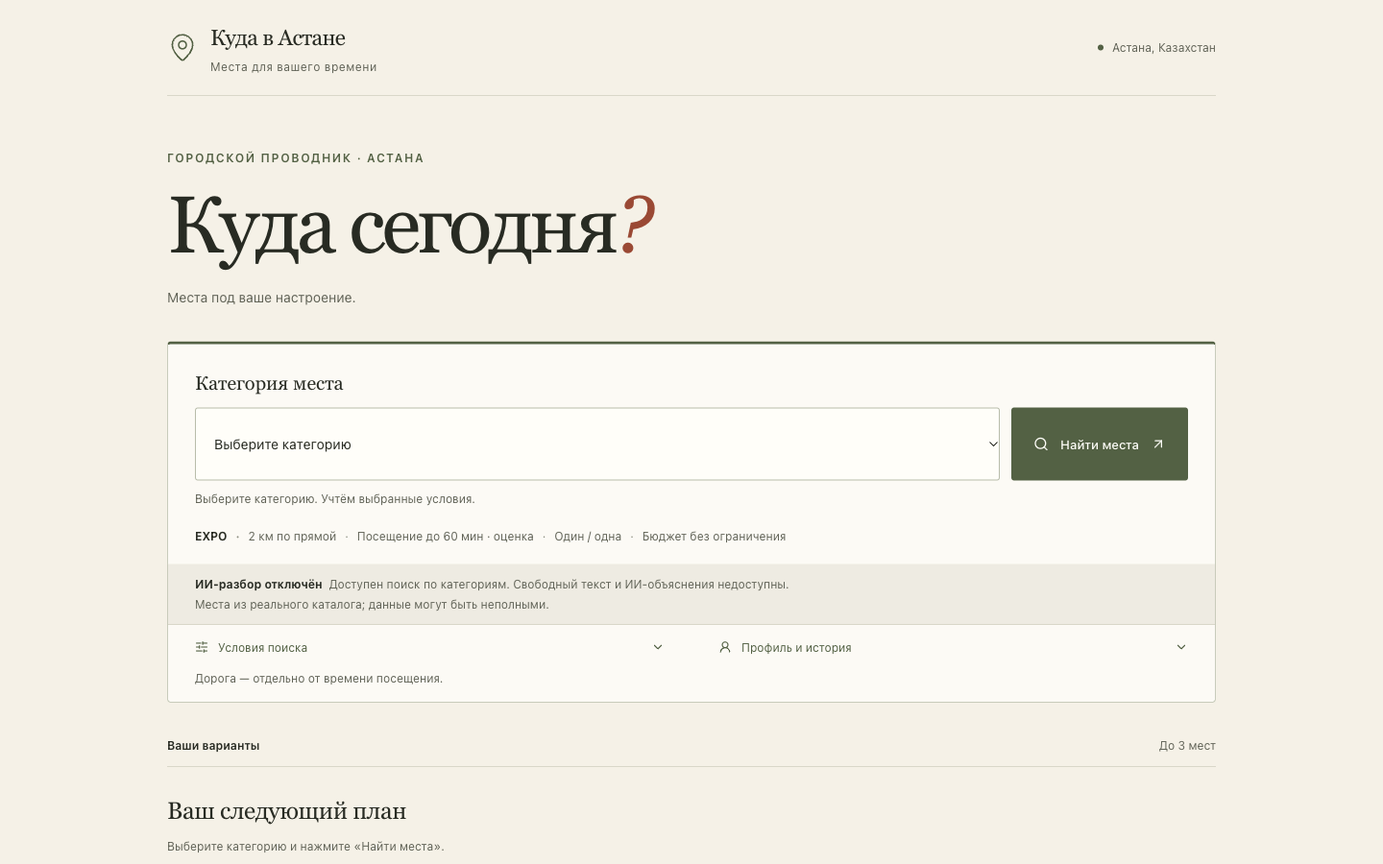
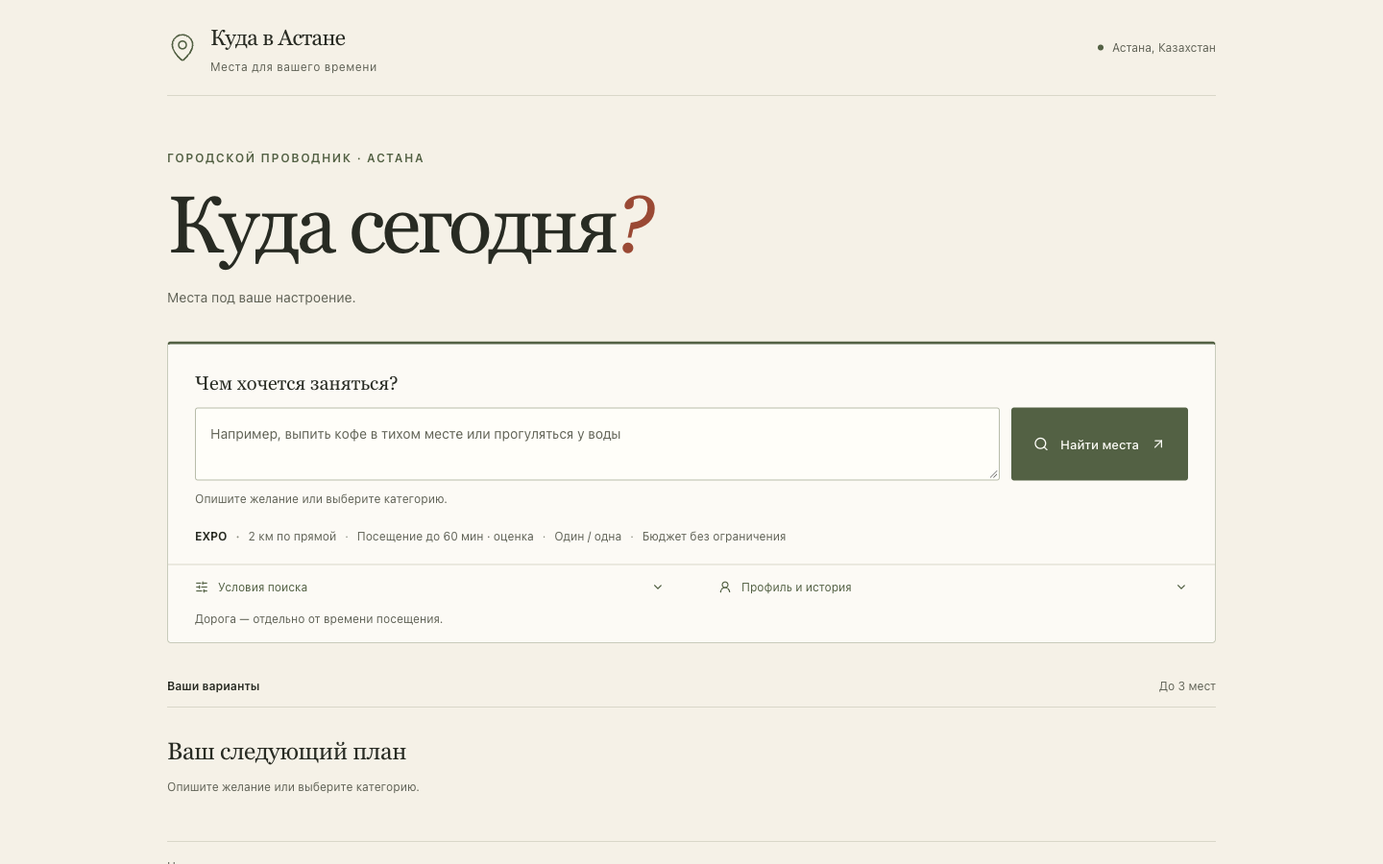
Document live AI deployment and refresh production screenshots

diff --git a/README.md b/README.md
@@ -1,26 +1,27 @@
 # Куда в Астане
 
-Городской гид: выберите категорию, проверьте условия и откройте маршрут.
+Городской гид: опишите желание, проверьте условия и откройте маршрут.
 
 [**Открыть демо →**](https://aituhack-city-guide.vercel.app) · [Новое UI-демо — MP4](output/submission/aituhack-redesign-offline.mp4) · [Презентация проекта](output/submission/aituhack-live-demo.pptx)
 
-![Новый интерфейс городского гида](docs/submission/images/repair-desktop-home-1440.png)
+![Интерфейс городского гида](docs/submission/images/repair-desktop-home-1440.png)
 
-> **Сейчас ИИ отключён.** Один реальный запрос при записи демо завершился без подтверждённой стоимости, поэтому существующий guard остановил все платные вызовы. Повтора не было. [Запись реальной неудавшейся попытки — MP4, 49,52 с](output/submission/aituhack-redesign-live-attempt.mp4). Категории, фильтры, источники и маршруты доступны без ИИ.
+> **Настоящий ИИ включён:** Mistral Small 3.2 через серверный OpenRouter. По последней просьбе пользователя новый платный проверочный запрос после включения не запускался. MP4 ниже показывает отдельно отмеченный режим без ИИ.
 
 ## Как пользоваться
 
-1. Выберите **«Парки»** в поле **«Категория места»**.
+1. Напишите **«Найдите парк для часовой прогулки»**.
 2. В **«Условиях поиска»** задайте **EXPO → 5 км → 60 минут**, бюджет оставьте пустым.
 3. Нажмите **«Найти места»**, откройте **«Сведения и источники»** или маршрут.
 
-Свободный текст сейчас недоступен; форма сразу предлагает работающий поиск по категории.
+Второстепенные фильтры и демо-профили доступны в раскрывающихся разделах.
 
 Пустой бюджет — без денежного лимита. **0 ₸** требует подтверждённо бесплатного посещения: при неизвестной цене место исключается.
 
 ## Что работает
 
-- Поиск по категориям и строгим ограничениям без платных вызовов.
+- Разбор свободного запроса настоящим ИИ, поиск по сохранённому RAG-индексу и объяснение выбора.
+- Категории и строгие ограничения; фильтры не ослабляются молча.
 - **0–3 реальных места** после строгих фильтров. Неизвестные свойства не подменяются фактами.
 - Краткое резюме условий; дополнительные фильтры, демо-профили и история — по раскрытию.
 - Источники и отзывы как мнения; идеи занятий отделены от подтверждённых сведений.
@@ -30,19 +31,19 @@
 ![Новый интерфейс: результаты поиска по категории без ИИ](docs/submission/images/redesign-desktop-results-1440.png)
 
 <details>
-<summary>Мобильный экран: выбор категории, без ИИ</summary>
+<summary>Мобильный экран: запрос к ИИ</summary>
 
-<img src="docs/submission/images/repair-mobile-home-360.png" width="300" alt="Работающий выбор категории в мобильном интерфейсе" />
+<img src="docs/submission/images/repair-mobile-home-360.png" width="300" alt="Поле запроса к настоящему ИИ в мобильном интерфейсе" />
 
 </details>
 
 ## Новое видео
 
-[**Смотреть новое UI-демо — 81,52 с**](output/submission/aituhack-redesign-offline.mp4). Настоящий браузерный сценарий текущего режима без ИИ: категории, реальные места, источники и маршрут. Ответы получены от работающего API каталога, без подмен. 2ГИС запросила CAPTCHA; в ролике также открыт маршрут Google Maps из той же карточки. H.264, yuv420p, faststart, без звука.
+[**Смотреть новое UI-демо — 81,52 с**](output/submission/aituhack-redesign-offline.mp4). Настоящий браузерный сценарий исторического режима без ИИ: категории, реальные места, источники и маршрут. Ответы получены от работающего API каталога, без подмен. 2ГИС запросила CAPTCHA; в ролике также открыт маршрут Google Maps из той же карточки. H.264, yuv420p, faststart, без звука.
 
-Ролик записан до исправления формы21октября; сейчас категория доступна сразу на главном экране.
+Ролик записан до текущего включения ИИ. Сейчас на главном экране доступен свободный запрос.
 
-Успешное новое ИИ-демо **не записано**: единственная live-попытка дала уточнение без мест и неизвестную стоимость. Она сохранена отдельно по ссылке выше.
+Успешное новое ИИ-демо **не записано**. [Реальная предыдущая неудавшаяся попытка — 49,52 с](output/submission/aituhack-redesign-live-attempt.mp4) сохранена отдельно: уточнение без мест и неизвестная стоимость. После срочного включения новый платный прогон и запись не выполнялись.
 
 [Предыдущий ролик — stub, 1:50](output/submission/aituhack-demo.mp4) сохранён отдельно. Он не представляет текущую версию.
 
@@ -50,7 +51,7 @@
 
 **298 мест · 7 категорий · 591 короткая выдержка с источниками.** Импорт из сохранённого снимка 2ГИС/Apify от 19 октября 2026. Каталог и индекс не пересобирались ради редизайна.
 
-Live-конвейер сохранён в коде: Mistral Small 3.2 / DeepInfra через серверный OpenRouter разбирает запрос и объясняет выбор. Сейчас он отключён из-за новой неизвестной стоимости; автоматического снятия блокировки нет. Embeddings — `openai/text-embedding-3-small`, индекс **298 × 1536**. Названия, рейтинги, координаты, часы и ссылки берутся из каталога; сервер проверяет ID, источники и ограничения.
+Live-конвейер сохранён в коде: Mistral Small 3.2 / DeepInfra через серверный OpenRouter разбирает запрос и объясняет выбор. Он включён на одном сервере с прежним canonical учётом расходов. Vercel передаёт проверенный запрос через защищённый серверный proxy; OpenRouter-ключ и ledger остаются на Mac. Существующий неизвестный запрос учтён по отдельно разрешённому верхнему резерву $0.028096, actual остаётся неизвестным. Новая неизвестная стоимость снова останавливает платные вызовы. Embeddings — `openai/text-embedding-3-small`, индекс **298 × 1536**. Названия, рейтинги, координаты, часы и ссылки берутся из каталога; сервер проверяет ID, источники и ограничения.
 
 [Контракт API](docs/data-contract.md) · [Происхождение данных](docs/collection-import.md) · [RAG и метрики](docs/indexing.md) · [Аудит редизайна](docs/ui-redesign-audit.md)
 
@@ -76,11 +77,13 @@ pnpm exec playwright test --config playwright.disabled.config.ts
 python3 scripts/check_harness.py
 ```
 
-Исправление21октября: **6 сценариев режима без ИИ и 70 прежних браузерных сценариев**, lint, typecheck, production build, strict NFT и harness прошли. Ранее при редизайне проверены1055unit-тестов. Desktop1440/mobile390/360, фильтры, пустой результат, источники, фокус и ссылки карт проверены; отдельное независимое ревью пройдено. Полный live-eval не запускался. Известные ключи в исходниках, сборке и исходящих коммитах проверены: совпадений нет. Результаты — в трекере.
+Срочное включение21октября: отдельный versioned бюджетный grant и защищённый proxy прошли независимое ревью; выполнены только целевые offline-проверки и сборка. Новых платных eval/smoke нет.
+
+Предыдущее исправление21октября: **6 сценариев режима без ИИ и 70 прежних браузерных сценариев**, lint, typecheck, production build, strict NFT и harness прошли. Ранее при редизайне проверены1055unit-тестов. Desktop1440/mobile390/360, фильтры, пустой результат, источники, фокус и ссылки карт проверены; отдельное независимое ревью пройдено. Полный live-eval не запускался. Известные ключи в исходниках, сборке и исходящих коммитах проверены: совпадений нет. Результаты — в трекере.
 
 ## Ограничения
 
-Демо размещено на **Vercel Hobby** и не зависит от локального Mac или туннеля. Полная квалификация ИИ на 12 сценариях и проверка текущего URL на физическом телефоне не завершены. Голоса нет. Отзывы — мнения; цены, часы и свойства могут быть неизвестны. Право публикации исходных текстов отзывов отдельно не установлено.
+Интерфейс размещён на **Vercel Hobby**. **Для ИИ Mac и его туннель должны оставаться включёнными**; это временный backend, а не автономный облачный ИИ-сервис. Полная квалификация ИИ на 12 сценариях и проверка текущего URL на физическом телефоне не завершены. Голоса нет. Отзывы — мнения; цены, часы и свойства могут быть неизвестны. Право публикации исходных текстов отзывов отдельно не установлено.
 
 Заявка уже отправлена пользователем. Повторная отправка не выполнялась.
 

diff --git a/docs/handoff.md b/docs/handoff.md
@@ -1,25 +1,11 @@
 # Передача — 21 октября 2026
 
-Заявка уже отправлена пользователем. Повторная отправка не нужна и не выполнялась.
+Настоящий ИИ включён на [демо](https://aituhack-city-guide.vercel.app). Vercel production `dpl_G2L8nuN5hBTvRUnKc69bgeYekKMM` READY; source `80342d41bc9f18301ce300fd8fca55086d8e211a`. Заявка уже отправлена пользователем, повторно не отправлять.
 
-## Production
+Vercel выполняет только защищённый серверный proxy, paid=false и OpenRouter-ключ пустой. Новый single-host backend PID2516/port3008, tunnel2572, build `pm4QceUaRvxmCVBFzETAL` в отдельном snapshot `/tmp/aituhack-ai-reactivation-runtime/site`. Mistral Small3.2/DeepInfra, embeddings text-embedding-3-small, purpose demo. **ИИ зависит от включённых Mac и туннеля.** Старый immutable Vercel deployment и все локальные fallback сохранены; работающие.next не пересобирались.
 
-[Демо](https://aituhack-city-guide.vercel.app) опубликовано на существующем Vercel Hobby, deployment `dpl_7rgJDVWJjbm6tUeJprLshaNgp9ac` — READY/production. Адрес не зависит от Mac/QuickTunnel. AnonymousGET200,9assets200,8privatepaths404,298реальныхмест; явные disabled/paidfalse/keyempty, категория сразу на экране, недоступного текстового поля нет. Root360на production: Парки/EXPO/5км/60мин/пустойбюджет →3реальныхпарка, фокус/источники/маршруты сохранены, scrollWidth360. Второй productionPOST с0₸ →0мест с явным сохранением лимита; всего2offlinePOST/0provider. Физический телефон для этого URL не проверялся.
[1 lines of base64/hex data omitted]
 
-Код UI `7486fe645aeff5de2b32fb90083cccd37aa95624`; deployment добавляет ровно Nodeengine24.x, `vercel.json` и `.vercelignore`, которые теперь сохранены в репозитории. Payload51files/10,452,280B: app/config+catalog+индекс, без env/ключей/ledger/raw/normalized/docs/media/collector. ManifestSHA59a3ea679265e5393a6d19972d3233d9d646aeb8dda9006075095157dda8bd7c. Payload/config/actualproduction независимо SPEC/SAFETY PASS. Нового аккаунта/платежа/upgrade не было; существующий CLI прошёл обычную реавторизацию.
+339целевых budget+21proxy tests, typecheck/lint, build/NFT и exact52file/10,461,830B upload прошли. Anonymous root200/9assets200/8private404; bridge unauth401/authINVALID400 до core. Root увидел production в браузере1440/360, обновил screenshots; known4credentials/source/build/public0findings. **Новых validPOST/provider calls нет** по последней просьбе о скорости; это включение конфигурации, не новая успешная проверка ответа модели.
 
-Локальный fallback: checkout demo-repair, origin92201:3004+tunnel89576, build`OMfE5AIxdwz51pOXvdkLt`; preview91521:3007. Исходный origin56483/tunnel39251 и старый build6OQ сохранены.72511 заменён только после проверки preview/disabledrollback. Работающий `.next` не пересобирать. Staging validation build`GUHhrZq_VP3OUzA9yHDFg` не является remoteNextBUILD_ID; идентификатор cloud-release — deployment выше.
-
-## ИИ остаётся остановлен
-
-Одна реальная запись20октября дала needs_clarification/0мест и неизвестную стоимость. Canonicalv6/40entries/uncertaintrue/unknown1/inFlight0/0600, reservation`87d82508-47ff-4ef5-9981-7aa1cfb196dc`, резерв$0.028096/actualnull; SHA3969ea0ebb10af4eb6a5b9bee79657550d99986a5aeb7195058e2ebc25700f87 не изменён. Caps prep$2/eval$1.50внутри/demo$4 неизменны. Нет повторов/новогоgrant/предположенияcost0.
-
-R1.4 успешное новое AI-видео всё ещё blocked. В Vercel не загружены OpenRouter-ключ или canonicalledger. Не включать paidAI на serverless без разрешённого закрытия unknown и отдельно проверенного durable общего учёта. Категории/строгиефильтры/источники/маршруты работают без ИИ. Старые реальные smokes и новый offlineMP4 не выдавать за успешную новую AI-запись.
-
-## Проверки и материалы
-
-6настоящихdisabled+70stub браузерных сценариев, lint/typecheck, локальныйbuild/NFT6-1569 и stagingbuild/NFT6-1567 прошли;1055unit относятся к прежней приёмке редизайна, повторно для UI-only ремонта не запускались. FreshproductionHTML+9assets/3knowncredentials/0findings; source/build и outgoingGit проверяются перед публикацией. Каталог298POI/591выдержка и индекс298×1536 сохранены без повторного сбора/индексации;17оригиналов/collectorblock неизменны.
-
-README содержит текущие production screenshots и оба честно помеченных новых MP4: offline81.52s и failedlive49.52s. Предыдущие MP4/WEBM/PPTX сохранены. Шесть untrackedoriginals сборщика и `data_collection` trackerblock не трогать.
-
-R2 DONE: production и проверенные изменения опубликованы обычным push в main `7904f94a60f5525bdf9c7c26135add34a3d13a94`; удалённый commit проверен 2026-10-21T09:28:05.624658+00:00. R1.4 остаётся blocked; следующий шаг требует закрытия unknown/разрешения, не нового paid-повтора. Финальная квитанция — [tracker](../tracker.yaml) и [progress](progress.md). Evidence: `/tmp/aituhack-vercel-deploy/`, `/tmp/aituhack-demo-repair-integration/`, `/tmp/aituhack-demo-repair-runtime/`. Полная модельная квалификация, голос и текущий physicalphone/native-app handoff не закрыты.
+R3.3: обновлённые docs/main push/remote receipt завершаются. R1.4 новое успешное AI-видео снова TODO, старый бюджетный блок снят. Старые MP4/WEBM/PPTX и честно отмеченные offline/failedlive ролики сохранены. Датасет298POI/591выдержка/индекс298×1536 не пересобирался. Шесть untracked collector originals и data_collection trackerblock не трогать. Только root пишет tracker. Evidence: `/tmp/aituhack-ai-reactivation-{ui,runtime,review,integration}/`.

diff --git a/docs/budget.md b/docs/budget.md
@@ -1,4 +1,16 @@
-# Текущий checkpoint — 21 октября 2026
+# Текущее разрешённое восстановление — 21 октября 2026
+
+Прямая команда включить ИИ после раскрытого STOP принята интегратором и независимым reviewer как узкое разрешение учесть только уже зарезервированные $0.028096 demo intent87d82508-47ff-4ef5-9981-7aa1cfb196dc. Пользователь буквально сумму не называл; это явно записанная операторская интерпретация необходимого шага, не общее разрешение на будущие unknown. Exact authorization95b0b6df-9082-4012-b812-f60887a6dd7b/refuser-direct-enable-ai-20261021; actual остаётся null.
+
+Reviewed v7/operator применён к прежней canonical, затем отдельный независимый actual migration audit и root clear:40entries/34known+6upperbounds/unknown0/uncertainfalse; SHA2df753de24626b7f5fbbd976557e3554dd216b692c91912329dfedb549a84434.39остальныхentries,5priorgrants,history/caps сохранены. Prep exposure$1.438136012/eval$1.437640771 неизменны; demo charge$0.028096/available$3.971904, actualdemo0 НЕ означает бесплатно. Caps prep$2/eval$1.50внутри/demo$4 прежние. Новый unknown снова STOP.
+
+Новый сервер закрепляет MistralSmall3.2/DeepInfra и purpose demo; Vercel paidfalse/keyempty и только proxy в один persistentbackend. Ключ/ledger на Mac, токен bridge только server env. Новых paid smoke/eval/генераций после восстановления не было по прямой просьбе пользователя о скорости.
+
+---
+
+# Исторический checkpoint до включения ИИ — 21 октября 2026
+
+Этот раздел сохраняет прежнее состояние без ИИ и v6 STOP. Текущие v7 и включение описаны выше.
 
 [Новый интерфейс](https://aituhack-city-guide.vercel.app) работает в явно обозначенном режиме **без ИИ / paid=false**. Категории, строгие фильтры, реальные места, источники и маршруты доступны. Исправление21октября: видимый выбор категории вместо недоступного текста;6disabled+70stub браузерных проверок, lint/types/build/strictNFT/harness прошли; source7486fe6 плюс проверенные deployment-конфиги; production dpl_7rgJDVWJjbm6tUeJprLshaNgp9ac. Локальный fallback buildOMf сохранён.1055unit относятся к предыдущей приёмке редизайна, повторно в этом UI-исправлении не запускались. Актуальные материалы и проверки — в [README](../README.md).
 

diff --git a/docs/progress.md b/docs/progress.md
@@ -1,3 +1,7 @@
+# ИИ включён — 21 октября 2026
+
+R3.2 DONE: тот же https://aituhack-city-guide.vercel.app, READY production dpl_G2L8nuN5hBTvRUnKc69bgeYekKMM/source80342d4. Vercel paidfalse/keyempty -> token-auth singlehost2516/3008+CF2572, live/demo/MistralSmall3.2/DeepInfra, samecanonical v7 healthy SHA2df753…84434 unchanged. AnonymousGET200/9assets200/8private404/liveform; bridge401/authINVALID400 доcore; validPOST/provider0. Root actual1440/360 production screenshots обновлены, IABdeliverable открыт; publicHTML+9assets870255B/known4credentials0findings. Новая успешная модельная генерация не проверена по прямой просьбе; AI зависит от Mac/туннеля. Старые production/fallback/media/collector сохранены. R3.3 docs/main push в процессе; R1.4 видео TODO, бюджетный блок снят.
+
 # Срочное включение ИИ — 21 октября 2026, в процессе
 
 R3: последняя прямая команда включить ИИ после раскрытого STOP принята как узкое разрешение существующего demo-резерва $0.028096; пользователь буквально сумму не называл. Новый exact v7 grant/source/operator независимо PASS;339целевых budget+21proxy tests/types/lint0. Canonical40entries/34known6upperbounds/actualnull/caps2-1.5-4 сохранены,39другихentries/prior5grants/audithistory byte-preserved. После применения выполнен независимый actual migration audit и отдельный root clear: SHA2df753de24626b7f5fbbd976557e3554dd216b692c91912329dfedb549a84434, uncertainfalse/unknown0. Новых provider calls нет. Будущий unknown снова STOP.

diff --git a/docs/submission/limitations.md b/docs/submission/limitations.md
@@ -1,3 +1,5 @@
+> Текущее состояние21октября: [ИИ включён на демо](https://aituhack-city-guide.vercel.app), Vercel proxy к защищённому backend на Mac. Mac/туннель должны оставаться включёнными. Прежний unknown учтён точным reviewed v7 grant по верхнему резерву$0.028096, actualnull/caps прежние; будущий unknown STOP. Новых платных проверок и успешного AI-видео после включения нет. Ниже сохранены сведения предыдущей приёмки; текущие факты — в README и tracker.
+
 # Текущий checkpoint — 21 октября 2026
 
 [Новый интерфейс](https://aituhack-city-guide.vercel.app) работает в явно обозначенном режиме **без ИИ / paid=false**. Категории, строгие фильтры, реальные места, источники и маршруты доступны. Исправление21октября: видимый выбор категории вместо недоступного текста;6disabled+70stub браузерных проверок, lint/types/build/strictNFT/harness прошли; source7486fe6 плюс проверенные deployment-конфиги; production dpl_7rgJDVWJjbm6tUeJprLshaNgp9ac. Локальный fallback buildOMf сохранён.1055unit относятся к предыдущей приёмке редизайна, повторно в этом UI-исправлении не запускались. Актуальные материалы и проверки — в [README](../../README.md).

diff --git a/docs/submission/submit-now.md b/docs/submission/submit-now.md
@@ -1,3 +1,5 @@
+> Текущее состояние21октября: [ИИ включён на демо](https://aituhack-city-guide.vercel.app), Vercel proxy к защищённому backend на Mac. Mac/туннель должны оставаться включёнными. Прежний unknown учтён точным reviewed v7 grant по верхнему резерву$0.028096, actualnull/caps прежние; будущий unknown STOP. Новых платных проверок и успешного AI-видео после включения нет. Ниже сохранены сведения предыдущей приёмки; текущие факты — в README и tracker.
+
 # Текущий checkpoint — 21 октября 2026
 
 [Новый интерфейс](https://aituhack-city-guide.vercel.app) работает в явно обозначенном режиме **без ИИ / paid=false**. Категории, строгие фильтры, реальные места, источники и маршруты доступны. Исправление21октября: видимый выбор категории вместо недоступного текста;6disabled+70stub браузерных проверок, lint/types/build/strictNFT/harness прошли; source7486fe6 плюс проверенные deployment-конфиги; production dpl_7rgJDVWJjbm6tUeJprLshaNgp9ac. Локальный fallback buildOMf сохранён.1055unit относятся к предыдущей приёмке редизайна, повторно в этом UI-исправлении не запускались. Актуальные материалы и проверки — в [README](../../README.md).

diff --git a/docs/readiness-report.md b/docs/readiness-report.md
@@ -1,3 +1,5 @@
+> Текущее состояние21октября: [ИИ включён на демо](https://aituhack-city-guide.vercel.app), Vercel proxy к защищённому backend на Mac. Mac/туннель должны оставаться включёнными. Прежний unknown учтён точным reviewed v7 grant по верхнему резерву$0.028096, actualnull/caps прежние; будущий unknown STOP. Новых платных проверок и успешного AI-видео после включения нет. Ниже сохранены сведения предыдущей приёмки; текущие факты — в README и tracker.
+
 # Текущий checkpoint — 21 октября 2026
 
 [Новый интерфейс](https://aituhack-city-guide.vercel.app) работает в явно обозначенном режиме **без ИИ / paid=false**. Категории, строгие фильтры, реальные места, источники и маршруты доступны. Исправление21октября: видимый выбор категории вместо недоступного текста;6disabled+70stub браузерных проверок, lint/types/build/strictNFT/harness прошли; source7486fe6 плюс проверенные deployment-конфиги; production dpl_7rgJDVWJjbm6tUeJprLshaNgp9ac. Локальный fallback buildOMf сохранён.1055unit относятся к предыдущей приёмке редизайна, повторно в этом UI-исправлении не запускались. Актуальные материалы и проверки — в [README](../README.md).

diff --git a/docs/submission/scenarios.md b/docs/submission/scenarios.md
@@ -1,3 +1,5 @@
+> Текущее состояние21октября: [ИИ включён на демо](https://aituhack-city-guide.vercel.app), Vercel proxy к защищённому backend на Mac. Mac/туннель должны оставаться включёнными. Прежний unknown учтён точным reviewed v7 grant по верхнему резерву$0.028096, actualnull/caps прежние; будущий unknown STOP. Новых платных проверок и успешного AI-видео после включения нет. Ниже сохранены сведения предыдущей приёмки; текущие факты — в README и tracker.
+
 # Текущий сценарий — режим без ИИ
 
 Заявка уже отправлена. [Демо](https://aituhack-city-guide.vercel.app): «Категория места» → Парки → «Условия поиска» → EXPO/5км/60мин/бюджет пустой → поиск → сведения/источники → маршрут. Один настоящий live-запрос завершился needs_clarification и unknowncost; все paidSTOP, успешного новогоAIролика нет. Актуальные два MP4 — в README.

diff --git a/docs/submission/links.md b/docs/submission/links.md
@@ -1,3 +1,5 @@
+> Текущее состояние21октября: [ИИ включён на демо](https://aituhack-city-guide.vercel.app), Vercel proxy к защищённому backend на Mac. Mac/туннель должны оставаться включёнными. Прежний unknown учтён точным reviewed v7 grant по верхнему резерву$0.028096, actualnull/caps прежние; будущий unknown STOP. Новых платных проверок и успешного AI-видео после включения нет. Ниже сохранены сведения предыдущей приёмки; текущие факты — в README и tracker.
+
 # Демо и материалы — 21 октября 2026
 
 [**Новый интерфейс**](https://aituhack-city-guide.vercel.app) · [README](../../README.md) · [GitHub main](https://github.com/yernururue/aitu_hack)
